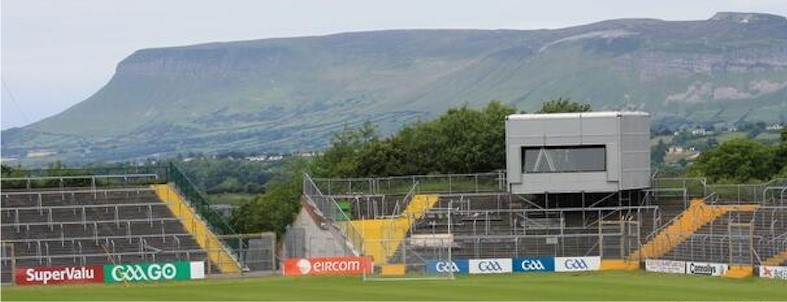
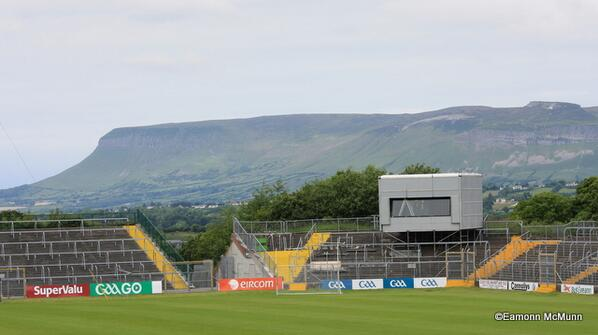
Add lighthouse & fix imagepositioning using object-position

diff --git a/index.html b/index.html
@@ -110,6 +110,7 @@ body {
   height: 100%;
   transition: transform 0.8s ease;
   object-fit: cover;
+  object-position: center center;
   display: block;
 }
 
@@ -200,6 +201,41 @@ body {
 .pitch-next {
   right: 12px;
 }
+  /* Create lightbox styles for image viewing when a carousel image is clicked */
+.image-lightbox {
+  position: fixed;
+  inset: 0;
+
+  background: rgba(0,0,0,.95);
+
+  display: none;
+
+  align-items: center;
+  justify-content: center;
+
+  z-index: 9999;
+}
+
+.image-lightbox.active {
+  display: flex;
+}
+
+.image-lightbox img {
+  max-width: 95%;
+  max-height: 95%;
+  object-fit: contain;
+}
+
+.lightbox-close {
+  position: absolute;
+  top: 20px;
+  right: 20px;
+
+  color: white;
+  font-size: 2rem;
+
+  cursor: pointer;
+}
 
 @media (max-width: 1100px) {
   .carousel-card {
@@ -276,7 +312,7 @@ body {
     </button>
     <div class="carousel-track" id="carouselTrack">
       <article class="carousel-card">
-        <img class="carousel-image" src="assets/gaa-pitches/all-gaa-pitches-ireland.png" alt="Fintra GAA pitch beside the beach in Donegal" loading="lazy" />
+        <img class="carousel-image" src="assets/gaa-pitches/pitches-of-ireland.png" alt="Fintra GAA pitch beside the beach in Donegal" loading="lazy" />
         <div class="carousel-card-overlay">
           <p class="carousel-card-label">Explore the Grounds →</p>
           <h3>Every Field. Every Club. All of Ireland.</h3>
@@ -303,7 +339,7 @@ body {
 </article>
 
 <article class="carousel-card">
-  <img class="carousel-image" src="assets/gaa-pitches/markievicz-park.jpg" alt="Markievicz Park with Benbulben mountain in the background" loading="lazy" />
+  <img class="carousel-image" src="assets/gaa-pitches/markievicz-park.jpg" style="object-position:center left" alt="Markievicz Park with Benbulben mountain in the background" loading="lazy" />
   <div class="carousel-card-overlay">
     <p class="carousel-card-label">Sligo</p>
     <h3>Beneath Benbulben</h3>
@@ -348,7 +384,7 @@ body {
 </article>
 
 <article class="carousel-card">
-  <img class="carousel-image" src="assets/gaa-pitches/inis-oir.jpg" alt="Inis Oirr GAA pitch on the Aran Islands" loading="lazy" />
+  <img class="carousel-image" src="assets/gaa-pitches/inis-oir.jpg" style="object-position:center right" alt="Inis Oirr GAA pitch on the Aran Islands" loading="lazy" />
   <div class="carousel-card-overlay">
     <p class="carousel-card-label">Inis Oírr, Galway</p>
     <h3>Beyond the mainland</h3>
@@ -418,6 +454,19 @@ body {
     <p>From parish fields to Ireland's largest sporting stage, every journey can lead here.</p>
   </div>
 </article>
+
+<div class="image-lightbox" id="imageLightbox">
+
+  <span
+    class="lightbox-close"
+    id="lightboxClose"
+  >
+    ✕
+  </span>
+
+  <img id="lightboxImage">
+
+</div>
 
     </div>
   </div>

diff --git a/js/carousel.js b/js/carousel.js
@@ -14,6 +14,9 @@ document.addEventListener("DOMContentLoaded", () => {
   const heritagePrev = document.getElementById("heritagePrev");
   const heritageNext = document.getElementById("heritageNext");
 
+  const lightbox = document.getElementById("imageLightbox");
+  const lightboxImage = document.getElementById("lightboxImage");
+
   let activeIndex = 0;
   let isPlaying = true;
   let autoPlay;
@@ -34,7 +37,7 @@ document.addEventListener("DOMContentLoaded", () => {
 };
 
   const maxIndex = () => {
-    return cards.length - visibleCards();
+    return cards.length - 1();
   };
 
   const getStep = () => {
@@ -115,6 +118,18 @@ if (toggleButton) {
 
   });
 }
+  // User can navigate carousel with left and right arrow keys
+document.addEventListener("keydown", (e) => {
+
+  if (e.key === "ArrowRight") {
+    nextSlide();
+  }
+
+  if (e.key === "ArrowLeft") {
+    prevSlide();
+  }
+
+});
 
   startAutoPlay();
 
@@ -127,6 +142,21 @@ if (toggleButton) {
   updateCarousel();
 
 });
+  
+  //  Make carousel functions available for heritage page
+function nextSlide() {
+  currentIndex =
+    (currentIndex + 1) % totalSlides;
+
+  updateCarousel();
+}
+
+function prevSlide() {
+  currentIndex =
+    (currentIndex - 1 + totalSlides) % totalSlides;
+
+  updateCarousel();
+}
 
 //  Carousel buttons for heritage page
 if (heritageNext) {
@@ -154,6 +184,28 @@ if (heritagePrev) {
     updateCarousel();
   });
 }
+
+document
+.querySelectorAll(".carousel-image")
+.forEach(img => {
+
+  img.addEventListener("click", () => {
+
+    lightboxImage.src = img.src;
+
+    lightbox.classList.add("active");
+
+  });
+
+});
+//  Add event listener to close lightbox when clicking outside the image
+document
+.getElementById("lightboxClose")
+.addEventListener("click", () => {
+
+  lightbox.classList.remove("active");
+
+});
 
 //  Test a swipe gesture on mobile devices
 let startX = 0;

diff --git a/heritage.html b/heritage.html
@@ -158,6 +158,7 @@
   width: 100%;
   height: 420px;
   object-fit: cover;
+  object-position: center center;
   display: block;
 }
 
@@ -454,7 +455,7 @@
 
   <img
     class="timeline-image"
-    src="assets/heritage/michael_cusack_portrait.jpg"
+    src="assets/heritage/michael_cusack_portrait.jpg" style="object-position:center top"
     alt="GAA founded">
 
   <div class="timeline-overlay">